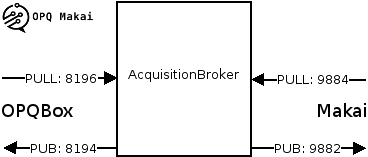
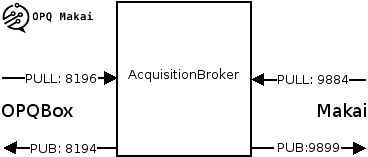
Changed ports for acq_brk to reflect deployment

Changed region(s): [[0.7473, 0.8917, 0.9266, 0.9936]]

diff --git a/docs/makai.md b/docs/makai.md
@@ -64,7 +64,7 @@ By default, the Acquisition Broker will attempt to load a configuration file loc
   "box_pub": "tcp://*:8194",
   "box_pull": "tcp://*:8196",
   "backend_pull": "tcp://*:9884",
-  "backend_pub": "tcp://*:9882",
+  "backend_pub": "tcp://*:9899",
   "mongo_uri": "mongodb://localhost:27017"
 }
 ```
